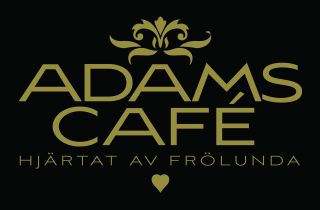
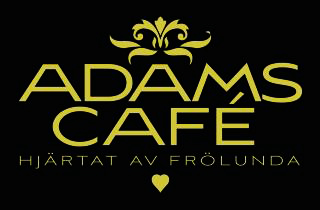
2024-03-16
Jag la till sociala medier ikoner och gjorde klart footern. Jag ändrade också text och ikoner så att de är samma färg som loggan. Fixade lite texter.

diff --git a/index.html b/index.html
@@ -7,6 +7,8 @@
   <link rel="stylesheet" href="css/style.css">
   <link href="https://fonts.googleapis.com/icon?family=Material+Icons" rel="stylesheet">
   <link rel="stylesheet" href="https://fonts.googleapis.com/css2?family=Material+Symbols+Outlined:opsz,wght,FILL,GRAD@20..48,100..700,0..1,-50..200" />
+  <link href='https://unpkg.com/css.gg@2.0.0/icons/css/facebook.css' rel='stylesheet'>
+  <link href='https://unpkg.com/css.gg@2.0.0/icons/css/instagram.css' rel='stylesheet'>
 </head>
 <body>
   <header>
@@ -47,7 +49,7 @@
         <p>Vi erbjuder en upplevelse med en färgstark mysig miljö, god mat, en otroligt populär salladsbuffé. <br> Adams Café erbjuder en livfull miljö med stora panoramafönster, färgstark inredning. Njut av solen på vår uteservering. <br> Vi erbjuder te & utsökt kaffe i många olika smaker som avnjuts i en trivsam miljö.</p>
       </div>
       <div class="info_med_img">
-        <h2>Info om mat och dryck</h2>
+        <h2>Mat och dryck</h2>
         <p>Våra bakverk har alltid varit populära, vi bakar allt sjävla. Här kan ni njuta av våra goda bakelser allt från de oemotståndliga muffins till smakrika kakor. <br>Våra specialutbildade baristor njuter av att få servera dig din speciella favorit, på plats eller att ta med. Vi kan även tipsa dig om vår goda salladsbar eller varm choklad.</p>
         <div class="bilder_index">
           <img src="img/24wu_testbild.jpg" alt="bild">
@@ -73,9 +75,9 @@
     </div>
     <footer>
       <div class="footer_grid">
-        <p class="kontakt_info_1">ADAMS CAFÉ<br>Frölunda torg<br>Tel. 031- 476 252 <br><br>Kontaktperson för företagsfrågor<br>Madeleine Isik<br>Tel. 0705-786 126<br><a href="mailto: madelene@adamscafe.se">madelene@adamscafe.se</a><br><br><a href="mailto: info@adamscafe.se">info@adamscafe.se</a><br><a href="www.adamscafe.se">www.adamscafe.se</a></p>
-        <div class="sociala_medier">Länkar till sociala medier</div>
-        <div class="footer_img">Bild från logga</div>
+        <p class="kontakt_info_1">ADAMS CAFÉ<br>Frölunda torg<br>Tel. 031-476 252<br><br><a href="mailto: info@adamscafe.se">info@adamscafe.se</a><br><a href="www.adamscafe.se">www.adamscafe.se</a><br><br></p>
+        <div class="sociala_medier"><a href="https://www.facebook.com/adamscafe.se/"><i class="gg-facebook"></i></a><a href="https://www.instagram.com/adamscafe/"><i class="gg-instagram"></i></a></div>
+        <div class="footer_img"><img class ="heart" src="img/heart.jpg"></div>
       </div>
     </footer>
   <script src="js/main.js"></script>

diff --git a/kontakta_oss.html b/kontakta_oss.html
@@ -48,11 +48,24 @@
         </div>
         <div class="info">
             <h2>Kontakta oss</h2>
-            <p>A D A M S CAFÉ<br>Frölunda torg<br>Tel. 031- 476 252 <br><br>Kontaktperson för företagsfrågor<br>Madeleine Isik<br>Tel. 0705-786 126<br><a href="mailto: madelene@adamscafe.se">madelene@adamscafe.se</a><br><br><a href="mailto: info@adamscafe.se">info@adamscafe.se</a><br><a href="www.adamscafe.se">www.adamscafe.se</a></p> 
+            <p>ADAMS CAFÉ<br>Frölunda torg<br>Tel. 031- 476 252 <br><br>Kontaktperson för företagsfrågor<br>Madeleine Isik<br>Tel. 0705-786 126<br><a href="mailto: madelene@adamscafe.se">madelene@adamscafe.se</a><br><br><a href="mailto: info@adamscafe.se">info@adamscafe.se</a><br><a href="www.adamscafe.se">www.adamscafe.se</a></p> 
         </div>
         <div class="info">
             <h2>Öppettider</h2>
-            <p>Lite text fehui fheii jferij frejo gåoijr ajefi fveåori</p>
+            <div class="oppettider">
+              <div class="dagar">
+                <p>Måndag-Torsdag</p>
+                <p>Fredag</p>
+                <p>Lördag</p>
+                <p>Söndag</p>
+              </div>
+              <div class="tider">
+                <p>08-21</p>
+                <p>08-20</p>
+                <p>09-21</p>
+                <p>10-21</p>
+              </div>
+            </div>
         </div>
         <div class="img_kontakt">
             <img src="img/24wu_testbild.jpg" alt="bild">

diff --git a/css/style.css b/css/style.css
@@ -5,8 +5,8 @@ header {
 }
 footer {
     background-color: black;
-    height: auto; 
-    color: goldenrod;
+    height: 65vh; 
+    color: #c6bf45;
 }
 .footer_grid{
     margin: 5vw; 
@@ -14,7 +14,7 @@ footer {
     min-height: 50vh;
     gap: 0.5vw;
     grid-template-columns: 100%;
-    grid-template-rows: 90% 5% 5%;
+    grid-template-rows: 60% 10% 15%;
     grid-template-areas: 
     'k_info_1'
     'sociala_medier'
@@ -22,15 +22,38 @@ footer {
 }
 .k_info_1 {
     grid-area: k_info_1;
+    color: #c6bf45;
+}
+
+.k_info_1 a {
+    color: #c6bf45;
 }
 .sociala_medier {
     grid-area: sociala_medier;
 }
+.sociala_medier i {
+    display: inline-block;
+    width: 20px;
+    height: 20px;
+    margin: 0.8vh;
+}
 .footer_img {
     grid-area: img;
+    display: flex;
+    justify-content: center;
 }
-footer a {
-    color:goldenrod;
+.heart {
+    height: 25vw;
+    width: 20vw;
+}
+a {
+    color:#c6bf45;
+}
+i {
+    color: #c6bf45;
+}
+nav a {
+    color: black;
 }
 body {
     margin: 0px;
@@ -92,7 +115,7 @@ img {
 }
 i.material-icons {
     font-size: 5rem;
-    color:goldenrod;
+    color: #c6bf45;
 }
 .show {
     left: 0;
@@ -103,7 +126,7 @@ i.material-icons {
     'wght' 400,
     'GRAD' 0,
     'opsz' 24;
-    color:goldenrod;
+    color: #c6bf45;
 }
 .fade-layer {
     position: fixed;
@@ -131,7 +154,6 @@ i.material-icons {
 }
 a {
     text-decoration: none;
-    color: black;
 }
 .on_page {
     text-decoration: underline;
